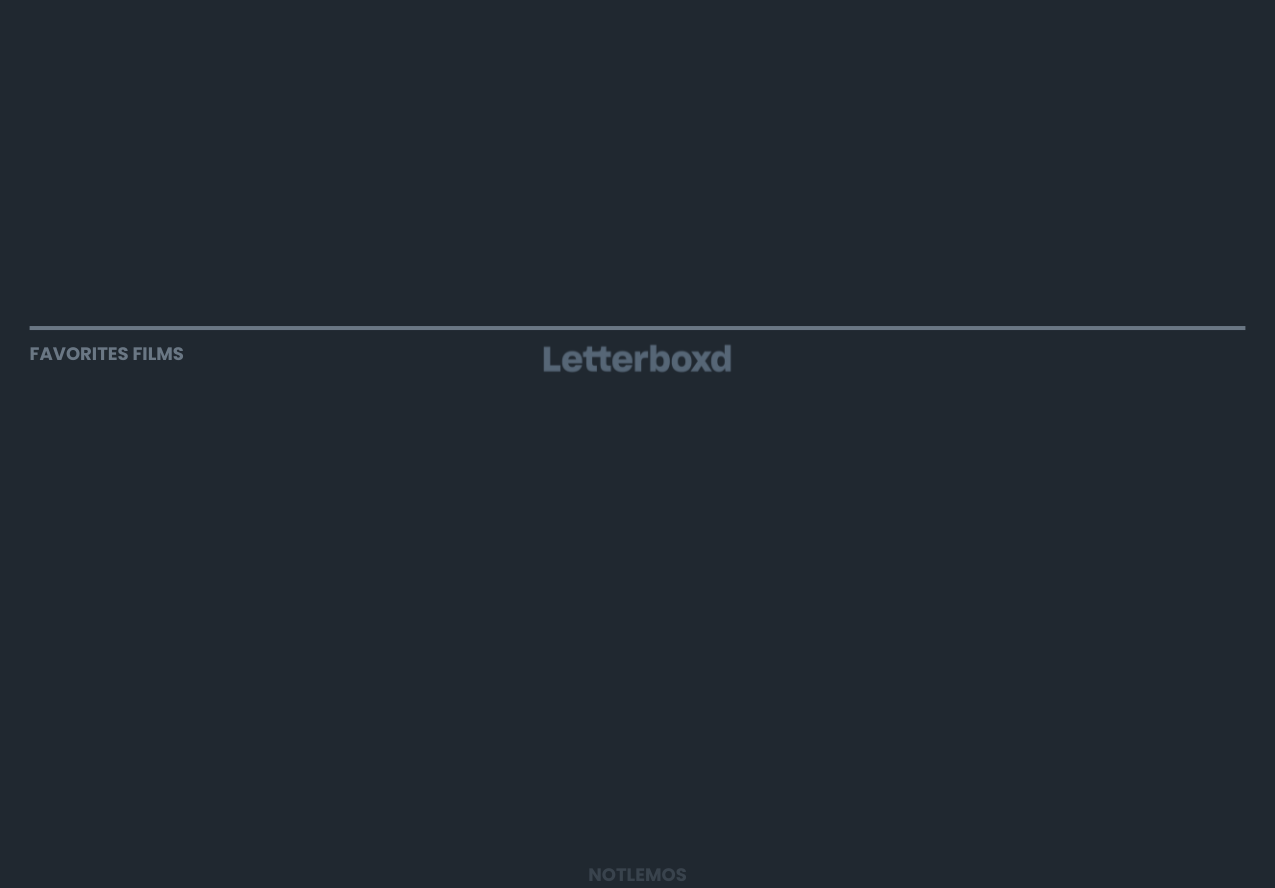
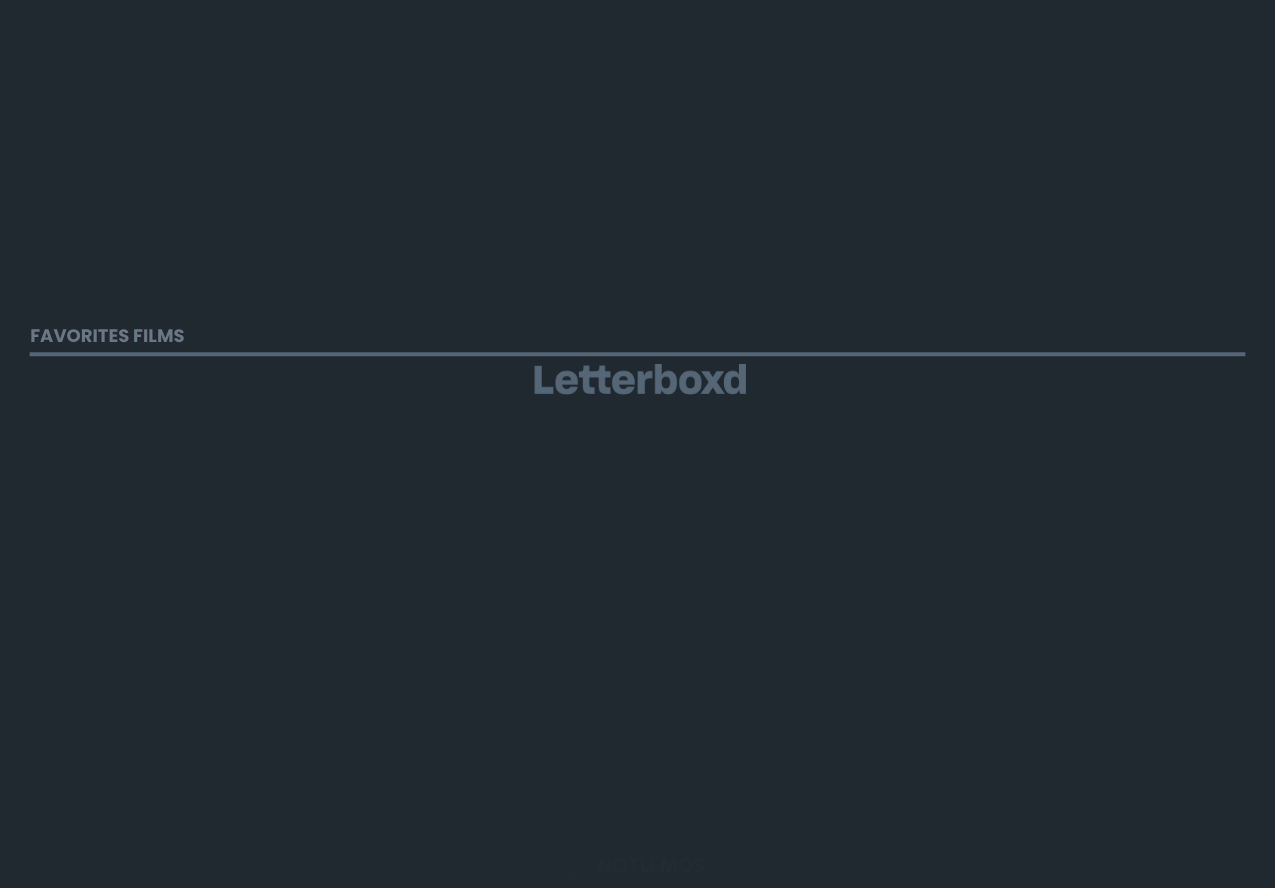
fix: letterboxd profile

Changed region(s): [[0.0, 0.3649, 0.9788, 0.4561], [0.4588, 0.973, 0.5506, 1.0]]

diff --git a/src/extensions/profileLetterboxd.py b/src/extensions/profileLetterboxd.py
@@ -6,7 +6,7 @@ from utils.pillowImgs import fade, cropImg
 import aiohttp
 import asyncio
 import sqlite3
-from PIL import Image, ImageDraw, ImageFont
+from PIL import Image, ImageDraw, ImageFont, ImageFilter, ImageOps
 from io import BytesIO
 import os
 conn = sqlite3.connect("src/data/users.db")
@@ -41,7 +41,7 @@ class LetterboxdPillow(commands.Cog):
             else:
                 await ctx.send("Use o comando uma vez com seu user para salvar.")
                 return
-        font = ImageFont.truetype('fonts/Poppins-SemiBold.ttf', size=18)
+        font = ImageFont.truetype('fonts/Poppins-SemiBold.ttf', size=26)
         image = Image.open('imgs/letterboxd.png').convert('RGBA')
         draw = ImageDraw.Draw(image)
 
@@ -60,20 +60,29 @@ class LetterboxdPillow(commands.Cog):
             image.paste(fade_backdrop, (0, 0), fade_backdrop)
                 
             
-            center_x = 130
+            center_x = 245
 
             bbox = draw.textbbox((0,0), profileName, font=font)
             text_width = bbox[2] - bbox[0]
             x = center_x - text_width // 2
             
 
-            draw.text((x, 50), profileName, fill="#6a7784", font=font)
+            draw.text((x, 265), profileName, fill="#ffffff", font=font)
 
             
             pp_resp = await session.get(profilePic)
             pp_bytes = await pp_resp.read()
             profPic = Image.open(BytesIO(pp_bytes)).convert('RGBA')
-            image.paste(profPic, (30, 77), profPic)
+            
+            
+            mask = Image.new("L", profPic.size, 0)
+            draw = ImageDraw.Draw(mask)
+            draw.ellipse((0, 0, profPic.size[0], profPic.size[1]), fill=255)
+            profPic = profPic.convert("RGBA")
+            circular_img = Image.composite(profPic, Image.new("RGBA", profPic.size, (0, 0, 0, 0)), mask)
+            
+                    
+            image.paste(circular_img, (30, 77),circular_img)
 
             
 
@@ -84,7 +93,7 @@ class LetterboxdPillow(commands.Cog):
             for poster_img in posters:
                 if poster_img:
                     poster_img = poster_img.resize((290, 433), Image.Resampling.LANCZOS)
-                    image.paste(poster_img, (off_set, 391), poster_img)
+                    image.paste(poster_img, (off_set, 408), poster_img)
                     off_set += 308
                     
 

diff --git a/src/api/tmdbAPI.py b/src/api/tmdbAPI.py
@@ -1,5 +1,6 @@
 import requests 
 import os
+from itertools import islice
 APITOKEN = os.getenv("TMBD_TOKEN")
 
 
@@ -15,12 +16,16 @@ async def fetch_data(session, endpoint, media_type):
             return None, None  
         
         data = await response.json()
+
         posters = data.get('posters', [])
         backdrops = data.get('backdrops', [])
-        backdrop = next((b for b in backdrops if b.get('iso_639_1') == None))
-        poster = next((p for p in posters if p.get('iso_639_1') == 'en'), None)
+
+        backdrop = next(islice((b for b in backdrops if b.get('iso_639_1') is None),2 , None), None)
+        poster = next(islice((p for p in posters if p.get('iso_639_1') == 'en'),1 , None),None)
+
         poster_path = poster['file_path'] if poster else None
         backdrop_path = backdrop['file_path'] if backdrop else None
+
         return poster_path, backdrop_path
 
         

diff --git a/src/utils/pillowImgs.py b/src/utils/pillowImgs.py
@@ -166,7 +166,7 @@ def fade(img):
     draw = ImageDraw.Draw(fade_mask)
 
   
-    grad_height = 800
+    grad_height = 900
    
     
     # --- FADE BASE ---
